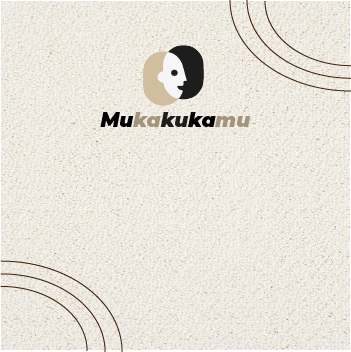
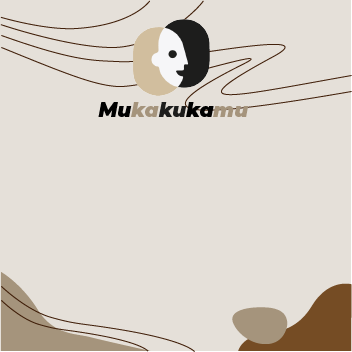
fix buttons

diff --git a/gui.py b/gui.py
@@ -74,16 +74,16 @@ def menu():
     panel = Label(m_menu, image = img)
 
     backimg = PhotoImage(file='./guiresources/m_back.png')
-    Label(m_menu, image=backimg).place(x=0,y=0)
+    Label(m_menu, image=backimg).pack()
 
     #choose image
-    c_img = Button(m_menu, command=lambda:choose_img_option(True), border=0, bg='#f3ede8') 
+    c_img = Button(m_menu, command=lambda:choose_img_option(True), border=0,bg='#e5e0d9') 
     img1 = PhotoImage(file = "./guiresources/opt1.png") #file path disesuaikan
     c_img.config(image=img1)
     c_img.place(x=70, y=150)
 
     #randomize
-    r_img = Button(m_menu, command=lambda:choose_img_option(False), border=0, bg='#f3ede8')
+    r_img = Button(m_menu, command=lambda:choose_img_option(False), border=0,bg='#e5e0d9')
     img2 = PhotoImage(file = "./guiresources/opt2.png") #file path disesuaikan
     r_img.config(image=img2)
     r_img.place(x=70, y=220)
@@ -113,26 +113,23 @@ def method():
     m_method.title('M U K A K U K A M U')
 
     mth_bg = PhotoImage(file='./guiresources/m_choosemethod.png')
+    Label(m_method, image=mth_bg).pack()
 
-    Label(m_method, image=mth_bg).place(x=0,y=0)
     v=IntVar()
     v.set(1)
 
-    Label(m_method, text="""Pilih metode yang Anda inginkan:""", justify = LEFT, padx = 20, pady=10, font=("Montserrat 8 bold"), bg='#ffffff').place(y = 100)
-    Radiobutton(m_method, text="Euclidean Distance", padx = 50, variable=v, value=1, font=("Montserrat",10), bg='#ffffff').place(y = 130)
-    Radiobutton(m_method, text="Cosine Similarity", padx = 50, variable=v, value=2, font=("Montserrat",10), bg='#ffffff').place(y = 150)
+    Radiobutton(m_method, text="Euclidean Distance", padx = 50, variable=v, value=1, font=("Montserrat",10),bg='#e5e0d9').place(y = 130)
+    Radiobutton(m_method, text="Cosine Similarity", padx = 50, variable=v, value=2, font=("Montserrat",10),bg='#e5e0d9').place(y = 150)
     m_method.wm_iconbitmap('./guiresources/icon.ico')
     m_method.resizable(0,0)
-    # m_method.overrideredirect(1)
 
     def_thres = StringVar(m_method)
     def_thres.set('10')
 
-    Label(m_method, text="""Tentukan nilai threshold yang Anda inginkan:""",justify = LEFT, padx = 20, pady=10, font=("Montserrat 8 bold"), bg='#ffffff').place(y = 180)
     t_value = Spinbox(m_method, from_=1 ,to=20,textvariable=def_thres)
     t_value.place(x=60, y = 220)
 
-    ok = Button(m_method, command=lambda:next(), border=0, bg='#ffffff')
+    ok = Button(m_method, command=lambda:next(), border=0 ,bg='#e5e0d9')
     img3 = PhotoImage(file='./guiresources/ok.png')
     ok.config(image=img3)
     ok.place(x=70, y= 260)
@@ -193,52 +190,60 @@ def img():
         m_img.destroy()
 
     m_img = Tk()
-    m_img.title('M U K A K U K A M U') #engga keliatan krn frame windowsnya dihapus wkwk
+    m_img.title('M U K A K U K A M U')
     m_img.geometry('800x450+200+150')
-    m_img.wm_iconbitmap('./guiresources/icon.ico') #engga keliatan krn frame windowsnya dihapus wkwk
+    m_img.wm_iconbitmap('./guiresources/icon.ico')
     m_img.resizable(0,0)
-    # m_img.overrideredirect(1)
 
-    personname1 = fn.split('/')[3].split('\\')[0]
-    l_name1 = Label(m_img, text=personname1, font=("Montserrat", 8))
-    l_name1.place(x=150, y=35)
+    match_bg = PhotoImage(file='./guiresources/matchpage.png')
+    Label(m_img, image=match_bg).pack()
 
-    canvas1 = Canvas(m_img, width = 300, height = 300)
+    canvas1 = Canvas(m_img, width = 300, height = 300,bd=0, highlightthickness=0,bg='#e5e0d9')
     canvas1.place(x=50,y=50)
     img1 = ImageTk.PhotoImage(Image.open(fn))
     imgArea2 = canvas1.create_image(20,20, anchor=NW, image=img1)
 
-    personname2 = (refpath+matches[counter][0]).split('/')[3].split('\\')[0]
-    l_name2 = Label(m_img, text=personname2, font=("Montserrat", 8))
-    l_name2.place(x=500, y=30)
+    personname1 = fn.split('/')[3].split('\\')[0]
+    l_name1 = Label(m_img, text=personname1, font=("Montserrat", 10),bg='#e5e0d9')
+    l_name1.place(x=150, y=35)
 
-    canvas2 = Canvas(m_img, width = 300, height = 300)
+    canvas2 = Canvas(m_img, width = 300, height = 300,bd=0, highlightthickness=0,bg='#e5e0d9')
     canvas2.place(x=400,y=50)
     img2 = ImageTk.PhotoImage(Image.open(refpath+matches[counter][0]))
     imgArea2 = canvas2.create_image(20,20, anchor=NW, image=img2)      
 
-    bt1 = Button(m_img, text=">>", command=lambda:changeimg(matches, pos=True), state=NORMAL)
-    bt2 = Button(m_img, text="<<", command=lambda:changeimg(matches, pos=False), state=DISABLED)
-    bt1.place(x=400,y=370)
-    bt2.place(x=350,y=370)
+    personname2 = (refpath+matches[counter][0]).split('/')[3].split('\\')[0]
+    l_name2 = Label(m_img, text=personname2, font=("Montserrat", 10),bg='#e5e0d9')
+    l_name2.place(x=500, y=35)
+
+    bt1 = Button(m_img, command=lambda:changeimg(matches, pos=True), state=NORMAL,bg='#e5e0d9',bd=0)
+    bt2 = Button(m_img, command=lambda:changeimg(matches, pos=False), state=DISABLED,bg='#e5e0d9',bd=0)
+    
+    imgbt1 = PhotoImage(file='./guiresources/nextbtn.png')
+    bt1.config(image=imgbt1)
+    imgbt2 = PhotoImage(file='./guiresources/prevbtn.png')
+    bt2.config(image=imgbt2)
+    
+    bt1.place(x=590,y=370)
+    bt2.place(x=500,y=370)
 
     if counter == maximg-1:
         bt1.configure(state=DISABLED)
     if counter == 0:
         bt2.configure(state=DISABLED)
 
-    l_count = Label(m_img, text="1", font=("Montserrat", 11))
-    l_count.place(x=380,y=370)
+    l_count = Label(m_img, text="1", font=("Montserrat", 11),bg='#e5e0d9')
+    l_count.place(x=560,y=370)
 
-    backhome = Button(m_img,text="Back To Home", command=lambda:ret2home(), border=0)
+    backhome = Button(m_img, command=lambda:ret2home(), border=0,bg='#e5e0d9')
     img5 = PhotoImage(file='./guiresources/reset.png')
     backhome.config(image=img5)    
-    backhome.place(x=280,y=410)
+    backhome.place(x=40,y=400)
 
-    exitbtn = Button(m_img, command=lambda:exit(), border=0)
+    exitbtn = Button(m_img, command=lambda:exit(), border=0,bg='#e5e0d9')
     img4 = PhotoImage(file='./guiresources/exit.png')
     exitbtn.config(image=img4)
-    exitbtn.place(x=400,y=410)
+    exitbtn.place(x=660,y=400)
 
     m_img.mainloop()
 
